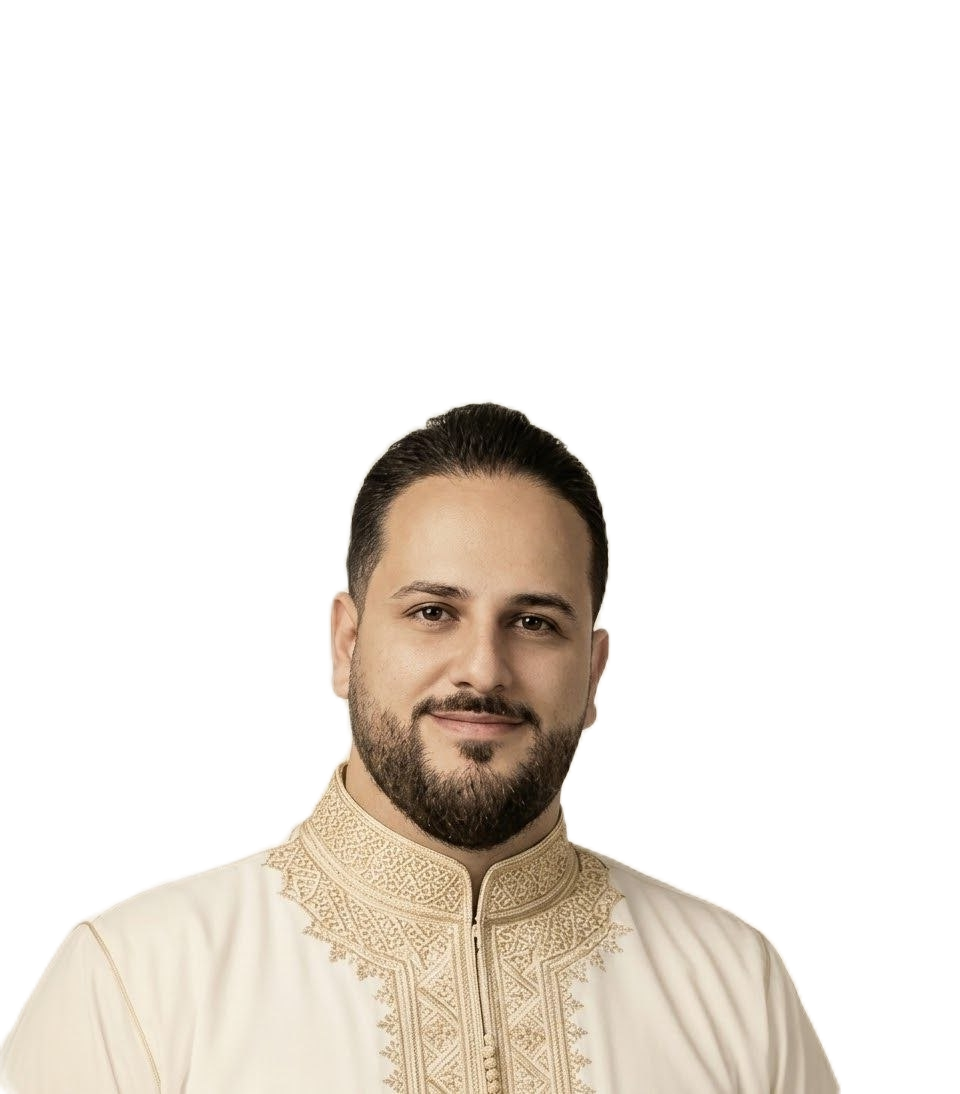
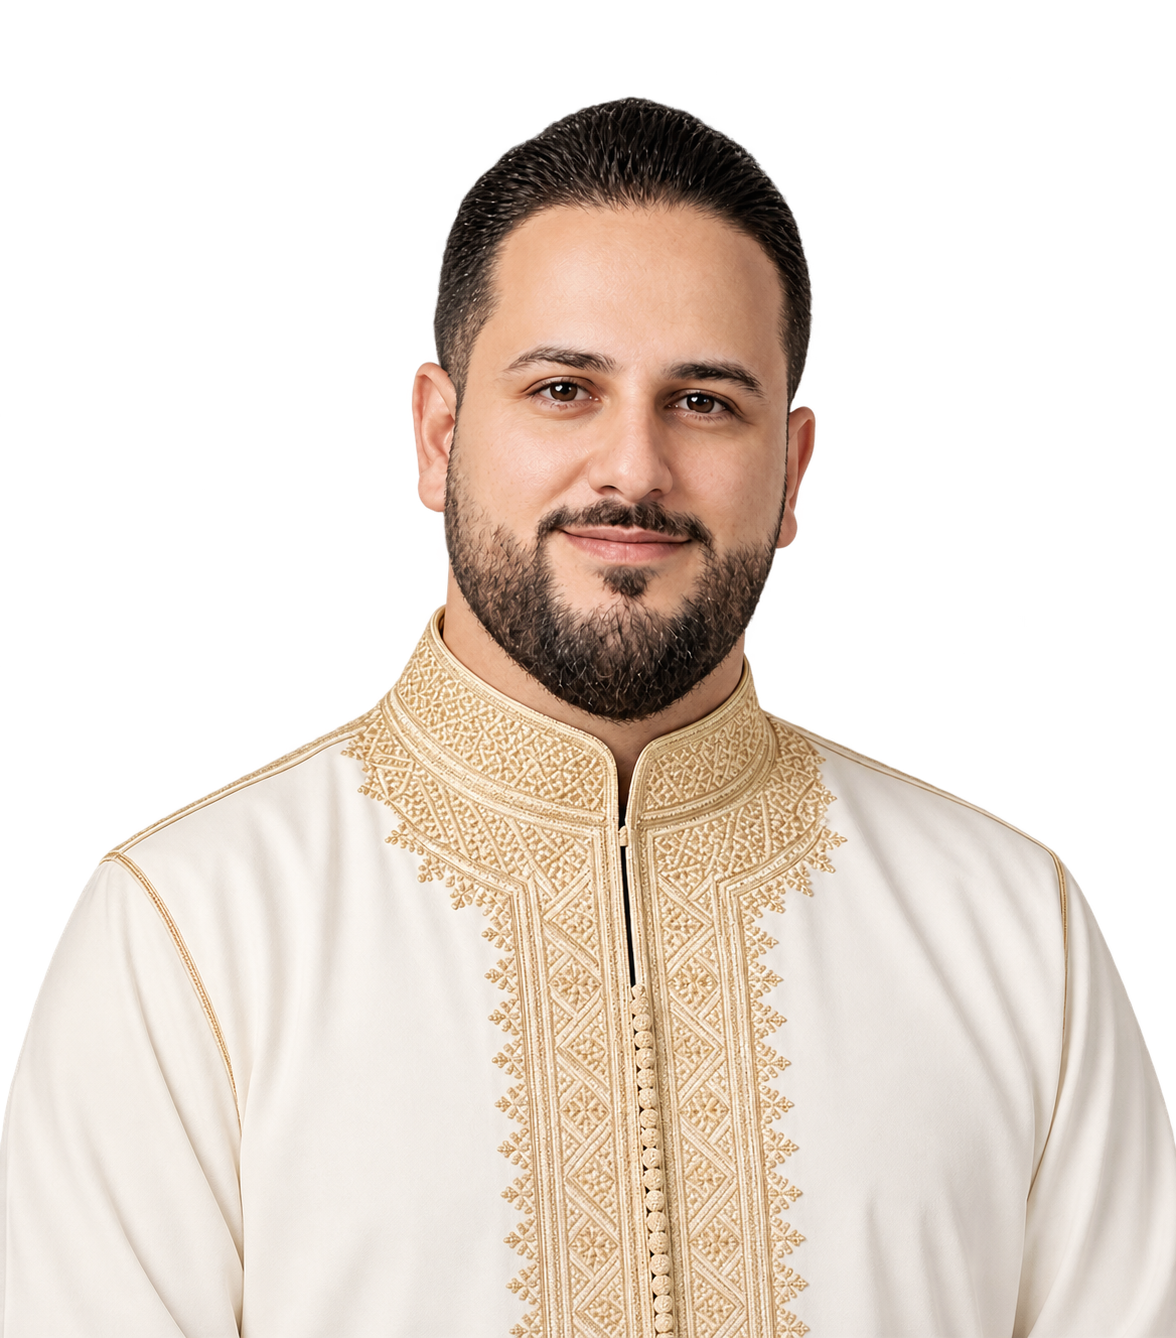
Add files via upload

diff --git a/ishraq-ui.css b/ishraq-ui.css
@@ -83,8 +83,8 @@ body.ix{
 .ix .ix-umrah{display:block;text-decoration:none;color:inherit}
 .ix .ix-umrah .ix-card{padding:22px 20px 20px;transition:.4s var(--ease)}
 .ix .ix-umrah:hover .ix-card{border-color:var(--a);transform:translateY(-3px)}
-.ix .ix-umrah .logo-bg{position:absolute;left:+85px;bottom:-40px;width:190px;opacity:0.05;pointer-events:none; z-index: -1;}
-.ix .ix-umrah .logo-bgf{position:absolute;left:-80px;bottom:-10px;width:290px;opacity:0.4;pointer-events:none}
+.ix .ix-umrah .logo-bg{position:absolute;left:100px;bottom:-40px;width:190px;opacity:0.07;pointer-events:none; z-index: -1;}
+.ix .ix-umrah .logo-bgf{position:absolute;left:-50px;bottom:-40px;width:250px;opacity:0.35;pointer-events:none}
 .ix .ix-umrah h3{font-size:1.45rem;margin:10px 0 4px;color:var(--a2)}
 .ix .ix-umrah p{color:#c4c4c8;margin:0 0 16px;font-size:.95rem;max-width:34em}
 .ix .ix-go{display:inline-flex;align-items:center;gap:10px;font-family:"Reem Kufi",Cairo,sans-serif;font-weight:700;color:#0b0b0c;padding:10px 22px;

diff --git a/index.html b/index.html
@@ -60,7 +60,7 @@
             <img class="logo-bgf" src="./ibrahim-photo.png" alt="" />
             <span class="badge badge-gold">حملة الإشراق للعمرة</span>
             <h3>أهلًا بمعتمري حملة الإشراق</h3>
-            <p>بطاقتك الخاصة، برنامج الرحلة، تقييمك واستفساراتك،<br> كلها بمكان واحد.</p>
+            <p>بطاقتك الخاصة، برنامج الرحلة،<br> تقييمك واستفساراتك، كلها بمكان واحد.</p>
             <div class="d-grid justify-content-between">
               <span class="ix-go">ادخل إلى رحلتك <i class="bi bi-arrow-left"></i></span>
               <a href="./Ibrahim-alamary-main/index.html" class="si mt-2 ms-5 link-offset-3 animate__animated animate__pulse animate__infinite "> احجز مقعدك الآن</a>
